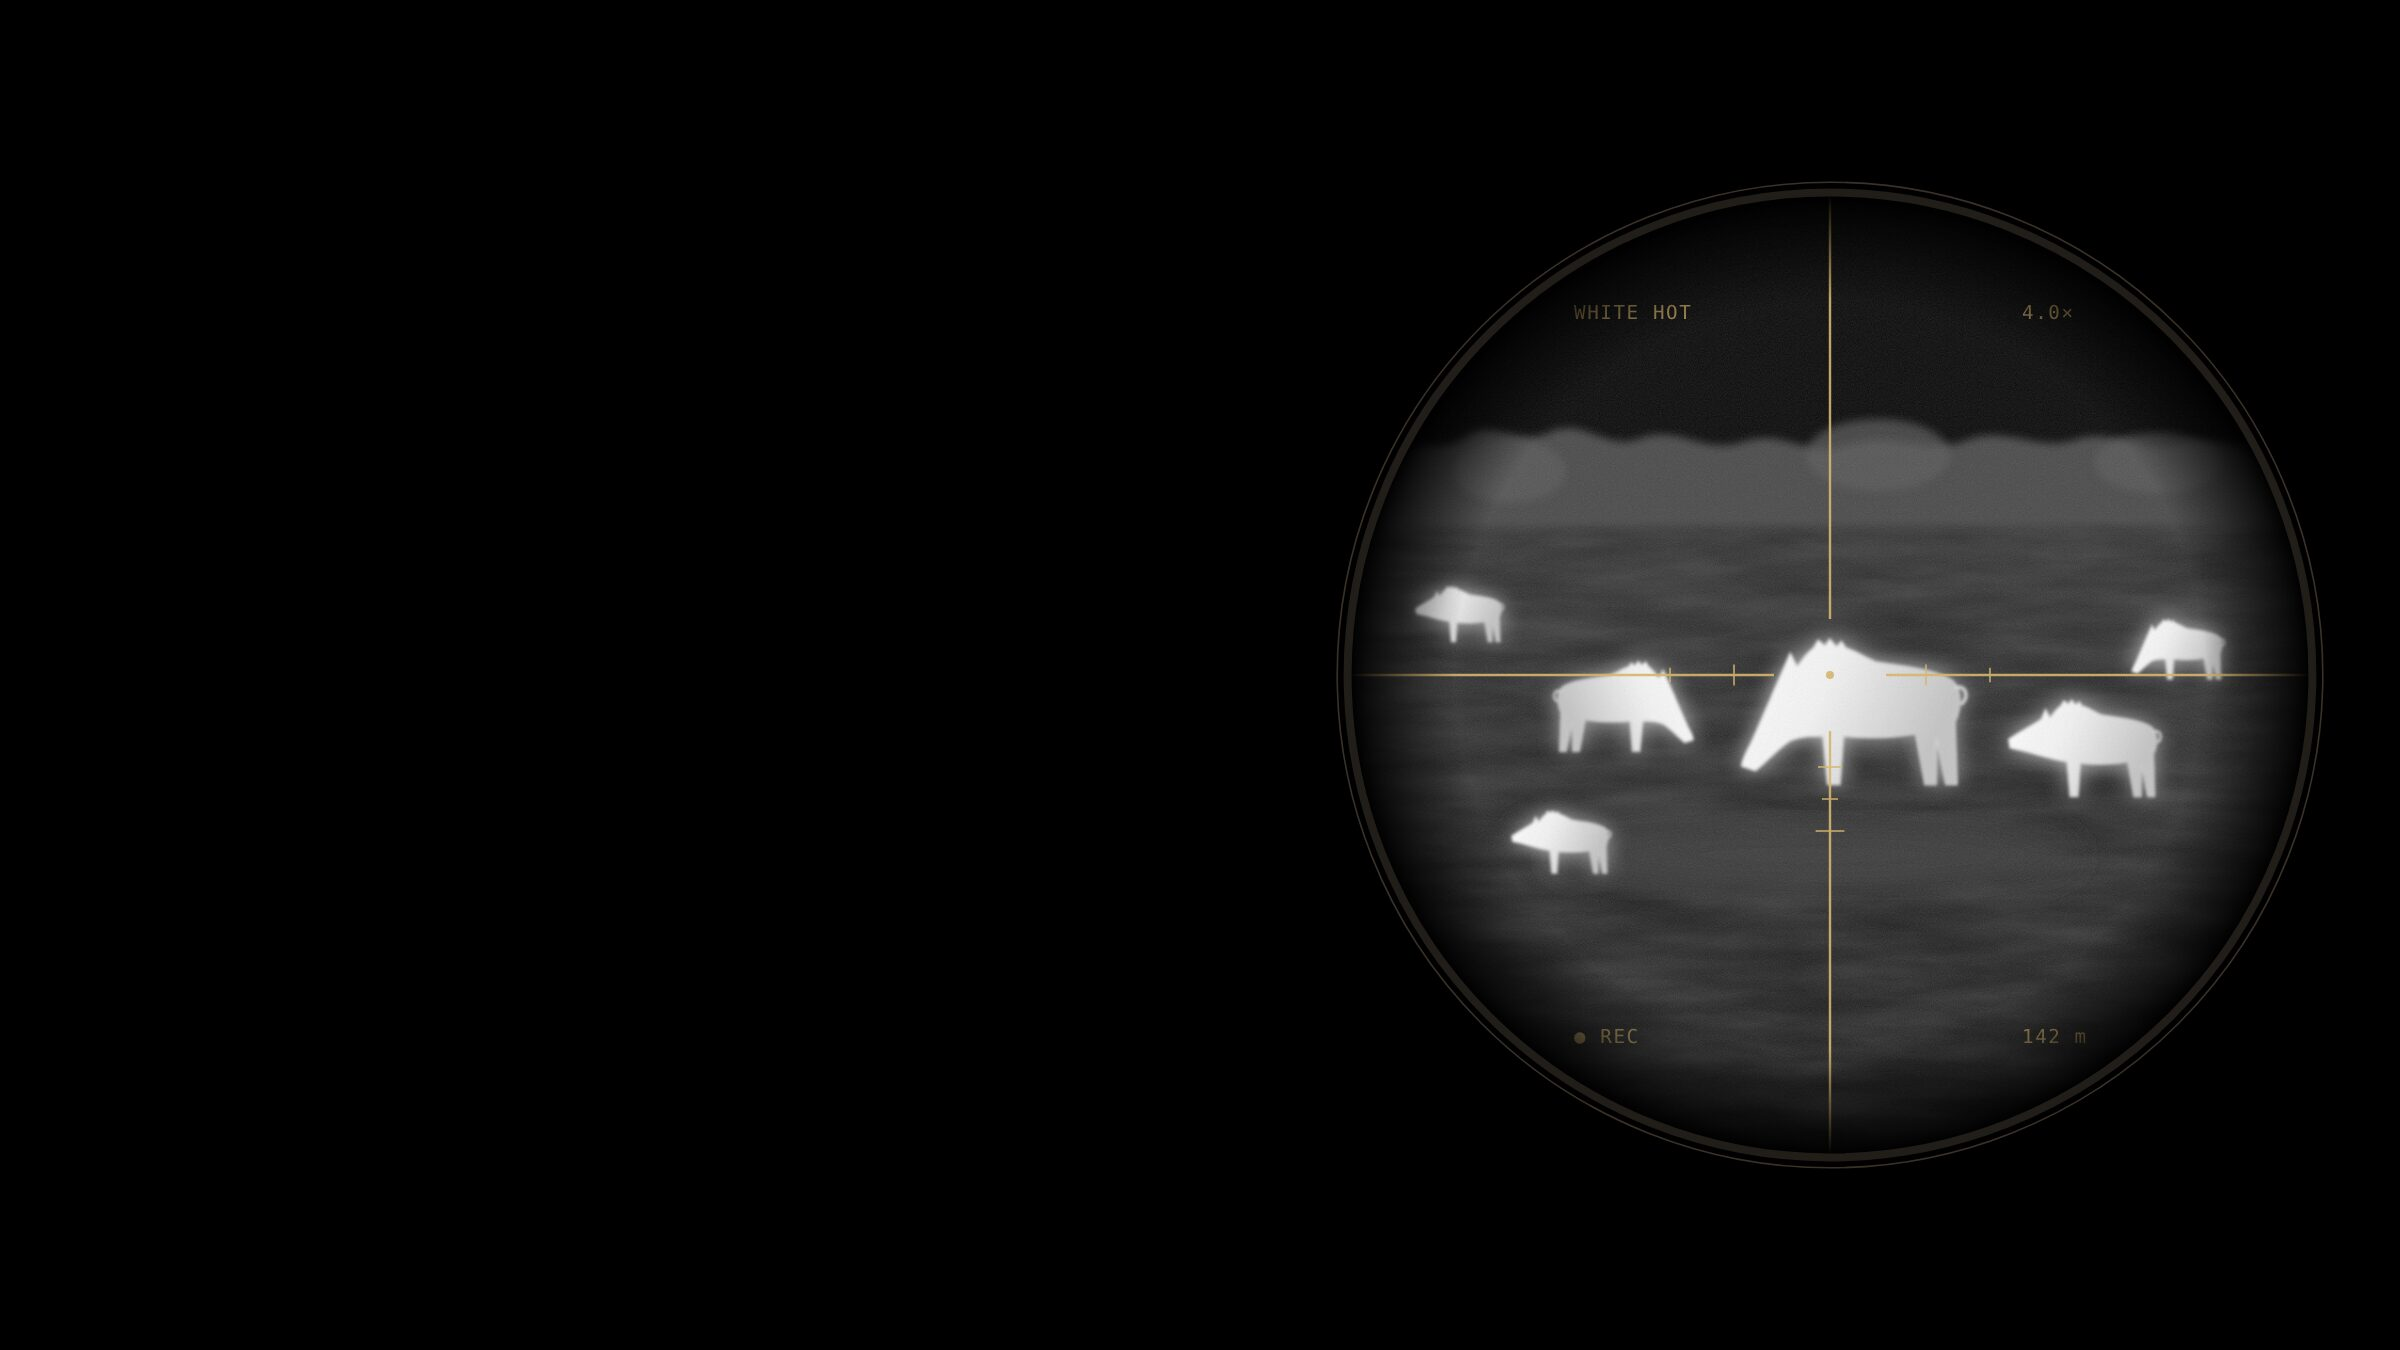
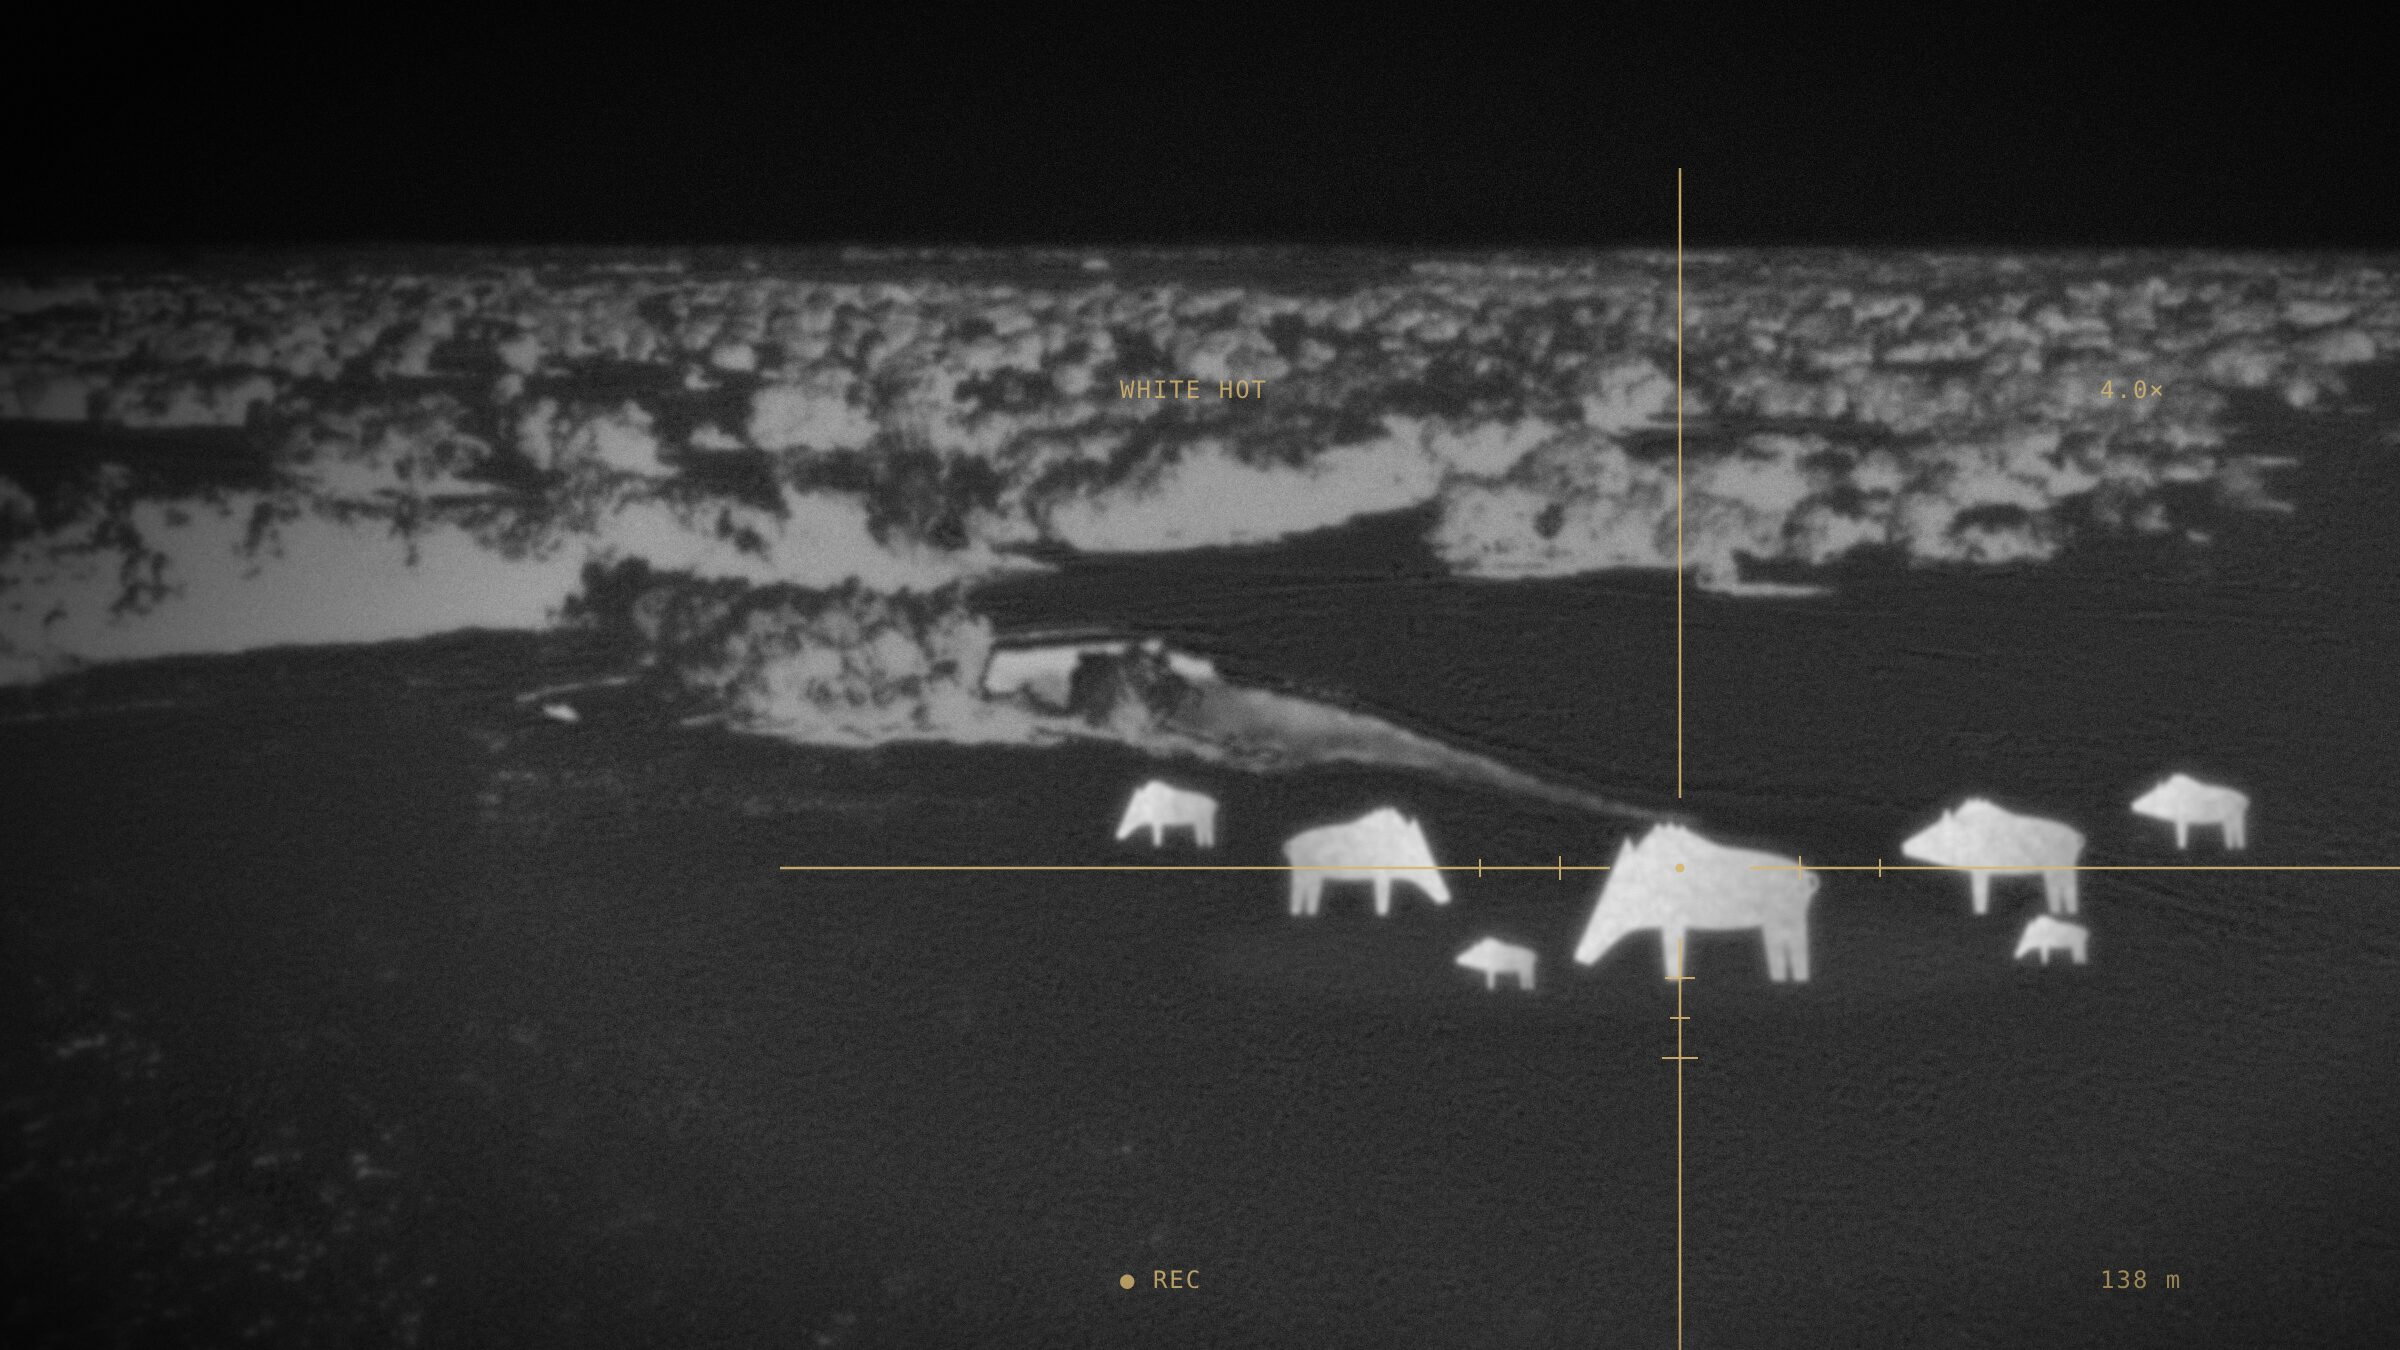
Hero: real ranch photo turned into a thermal night scene
- Stock-tank pasture photo converted to a white-hot thermal look (cold
  sky, warm tree line and water, soft sensor blur and grain)
- Illustrated hog heat signatures crossing the pasture, riflescope
  reticle on the lead hog; no people
- Homepage hero and a centred crop for the Thermal Hog Hunts banner,
  swapped once on existing sites from the earlier banners

Claude-Session: https://claude.ai/code/session_018G4aj9WPqcFW5S4KgvwbEi

diff --git a/setup/site-setup.php b/setup/site-setup.php
@@ -67,7 +67,7 @@ $fivef_photo_titles = array(
 	'hog-hunt-2'     => 'Night hog hunt with thermal optics',
 	'hog-hunt-3'     => 'Feral hog after a night hunt',
 	'hog-pair'       => 'Two feral hogs from a night hunt',
-	'thermal-banner' => 'Thermal scope view of feral hogs (illustration)',
+	'thermal-ranch-banner' => 'Thermal-style view of hogs on 5F Ranch pasture (illustrated)',
 	'creek'          => 'Creek through the brush',
 	'creek-bottom'   => 'Timbered creek bottom',
 	'ranch-overview' => 'Aerial view across the ranch',
@@ -148,7 +148,7 @@ if ( ! get_option( 'site_icon' ) && file_exists( get_theme_file_path( 'assets/im
  */
 $fivef_pages = array(
 	'home'               => array( 'Home', 'page-home', 0, 'page-landing', '' ),
-	'thermal-hog-hunts'  => array( 'Thermal Hog Hunts', 'page-hog-hunts', 0, '', 'thermal-banner' ),
+	'thermal-hog-hunts'  => array( 'Thermal Hog Hunts', 'page-hog-hunts', 0, '', 'thermal-ranch-banner' ),
 	'about-the-ranch'    => array( 'About the Ranch', 'page-about', 0, '', 'headquarters' ),
 	'hunting-fishing'    => array( 'Hunting & Fishing', 'page-hunting-fishing', 0, '', 'ranch-overview' ),
 	'dove-hunting'       => array( 'Dove Hunting', 'page-dove-hunting', 'hunting-fishing', '', 'stock-tank' ),
@@ -225,13 +225,31 @@ foreach ( $fivef_pages as $slug => $def ) {
 	}
 }
 
-// Thermal Hog Hunts banner: replace the earlier hunter photo with the thermal illustration (once).
-if ( ! get_option( 'fivef_setup_hogbanner_v2' ) && isset( $fivef_ids['thermal-hog-hunts'], $fivef_media['thermal-banner'], $fivef_media['hog-hunt-1'] ) ) {
-	if ( (int) get_post_thumbnail_id( $fivef_ids['thermal-hog-hunts'] ) === (int) $fivef_media['hog-hunt-1'] ) {
-		set_post_thumbnail( $fivef_ids['thermal-hog-hunts'], $fivef_media['thermal-banner'] );
-		$fivef_log( 'Thermal Hog Hunts banner set to the thermal scope illustration' );
+// Thermal Hog Hunts banner: move off earlier versions (a hunter photo, then a drawn
+// illustration) to the thermal-style ranch photo. Only swaps if one of those is still set.
+if ( ! get_option( 'fivef_setup_hogbanner_v3' ) && isset( $fivef_ids['thermal-hog-hunts'], $fivef_media['thermal-ranch-banner'] ) ) {
+	$fivef_old_banners = array_filter(
+		array(
+			isset( $fivef_media['hog-hunt-1'] ) ? (int) $fivef_media['hog-hunt-1'] : 0,
+			(int) current(
+				get_posts(
+					array(
+						'post_type'   => 'attachment',
+						'post_status' => 'inherit',
+						'meta_key'    => '_fivef_photo_slot', // phpcs:ignore WordPress.DB.SlowDBQuery
+						'meta_value'  => 'thermal-banner', // phpcs:ignore WordPress.DB.SlowDBQuery
+						'numberposts' => 1,
+						'fields'      => 'ids',
+					)
+				)
+			),
+		)
+	);
+	if ( in_array( (int) get_post_thumbnail_id( $fivef_ids['thermal-hog-hunts'] ), $fivef_old_banners, true ) ) {
+		set_post_thumbnail( $fivef_ids['thermal-hog-hunts'], $fivef_media['thermal-ranch-banner'] );
+		$fivef_log( 'Thermal Hog Hunts banner set to the thermal-style ranch photo' );
 	}
-	update_option( 'fivef_setup_hogbanner_v2', 1, false );
+	update_option( 'fivef_setup_hogbanner_v3', 1, false );
 }
 
 /*

diff --git a/5f-ranch/functions.php b/5f-ranch/functions.php
@@ -244,8 +244,8 @@ function fivef_photo_alt( $slot ) {
 		'hog-hunt-2'     => __( 'Hunter with a thermal-scoped rifle and a feral hog taken at night', '5f-ranch' ),
 		'hog-hunt-3'     => __( 'Hunter kneeling beside a feral hog after a night hunt', '5f-ranch' ),
 		'hog-pair'       => __( 'Two feral hogs taken on a night hunt, with a thermal-scoped rifle', '5f-ranch' ),
-		'hero-thermal'   => __( 'Illustration: feral hogs glowing as heat signatures through a thermal riflescope at night', '5f-ranch' ),
-		'thermal-banner' => __( 'Illustration: feral hogs seen through a thermal riflescope at night', '5f-ranch' ),
+		'hero-thermal'         => __( 'Thermal-style night view of 5F Ranch pasture and stock tank with feral hogs in a riflescope reticle (illustrated)', '5f-ranch' ),
+		'thermal-ranch-banner' => __( 'Thermal-style night view of feral hogs crossing 5F Ranch pasture (illustrated)', '5f-ranch' ),
 	);
 	$found = fivef_photo_slot( $slot );
 	$key   = $found ? $found : $slot;

diff --git a/README.md b/README.md
@@ -61,8 +61,8 @@ tools/process-photo.sh ~/Downloads/DJI_0042.JPG aerial-ponds
 
 | Slot | Used for | Until it has its own photo, uses |
 | --- | --- | --- |
-| `hero-thermal` | Homepage hero: thermal-scope illustration of hogs (no people) | sunset illustration |
-| `thermal-banner` | Thermal Hog Hunts page banner (same illustration, centred) | (in place) |
+| `hero-thermal` | Homepage hero: the stock-tank pasture photo converted to a thermal night view, with illustrated hog heat signatures and a reticle (no people) | sunset illustration |
+| `thermal-ranch-banner` | Thermal Hog Hunts page banner (centred crop of the same) | (in place) |
 | `aerial-ponds` | Fishing card, Contact banner | (photo in place) |
 | `long-pond` | "Why weekends only", Fishing | (photo in place) |
 | `quarry-lake` | Home intro, Fishing (wide) | (photo in place) |
